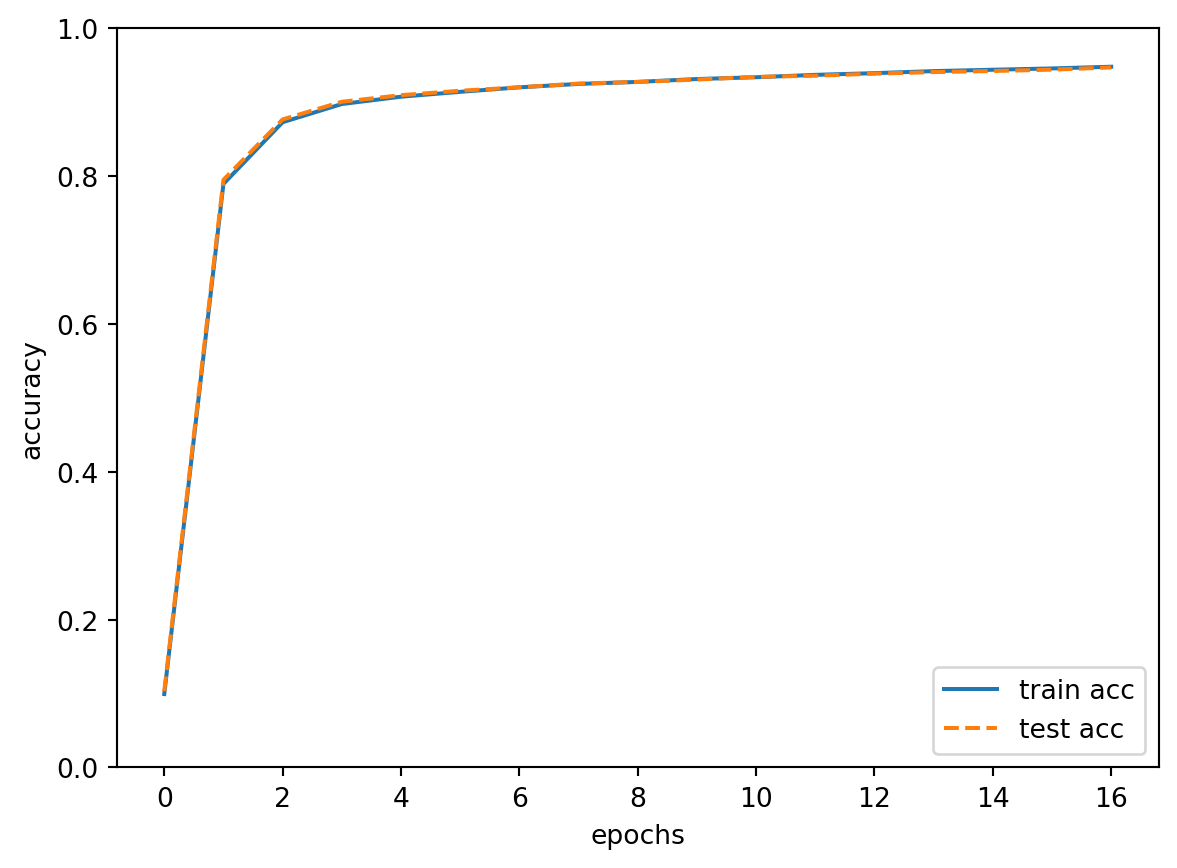
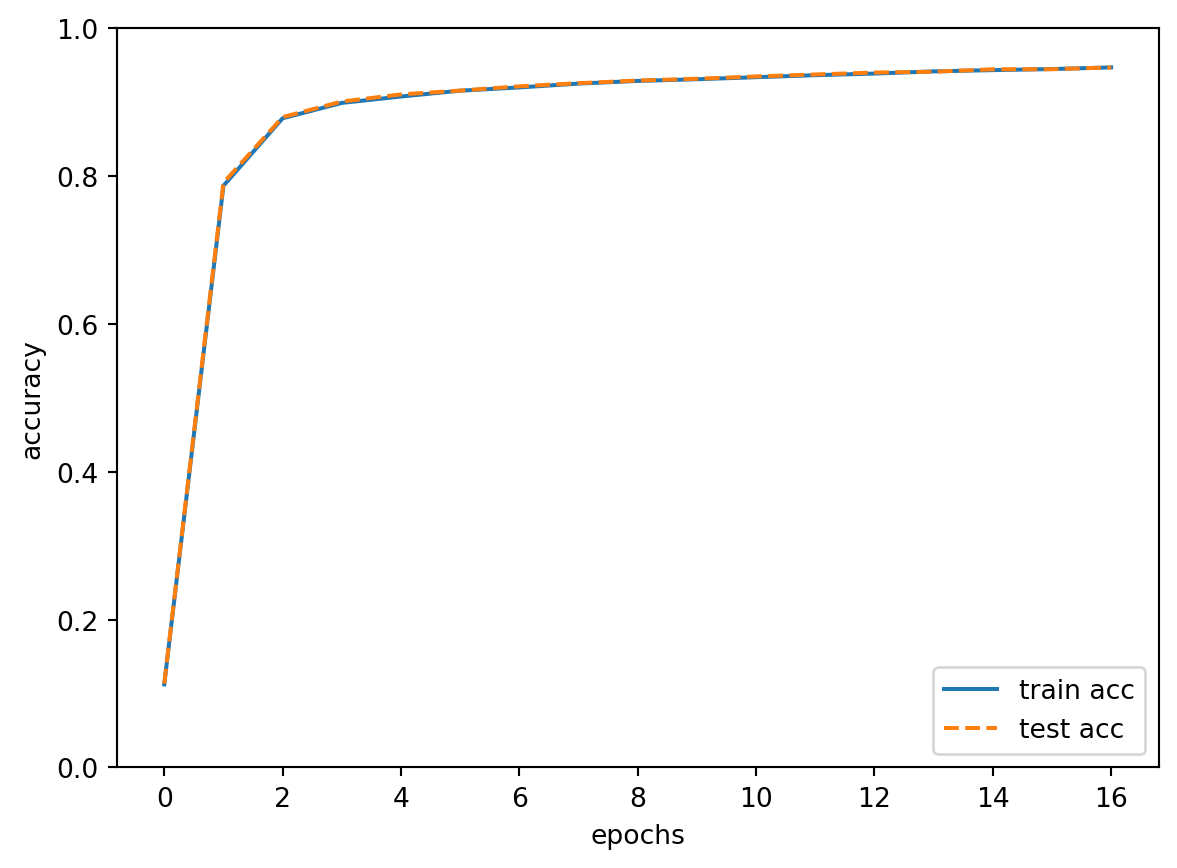
Built site for gh-pages

diff --git a/ANN-learning.html b/ANN-learning.html
@@ -363,7 +363,7 @@ Figure&nbsp;6.1: Forward and Backward propagation
 E = \frac{1}{2}\sum^{}_{k}(y_k - t_k)^2
 \tag{6.1}</span></span></p>
 <p>오차제곱합의 작동원리를 이해하기 위하여 임의로 <strong>원-핫 인코딩</strong>된 레이블(<span class="math inline">t_k</span>)과 임의로 <strong>소프트맥수 합수</strong>의 출력값(<span class="math inline">y_k</span>)을 생성하여 코드로 구현해 보겠습니다.<a href="#fn1" class="footnote-ref" id="fnref1" role="doc-noteref"><sup>1</sup></a></p>
-<div class="no-row-height column-margin column-container"><div id="fn1"><p><sup>1</sup>&nbsp;CEE에서도 동일한 예제를 사용 예정</p></div></div><div id="3942c938" class="cell" data-execution_count="2">
+<div class="no-row-height column-margin column-container"><div id="fn1"><p><sup>1</sup>&nbsp;CEE에서도 동일한 예제를 사용 예정</p></div></div><div id="c3f6967b" class="cell" data-execution_count="2">
 <div class="sourceCode cell-code" id="cb1"><pre class="sourceCode python code-with-copy"><code class="sourceCode python"><span id="cb1-1"><a href="#cb1-1" aria-hidden="true" tabindex="-1"></a><span class="co"># 정답 레이블은 2</span></span>
 <span id="cb1-2"><a href="#cb1-2" aria-hidden="true" tabindex="-1"></a>t <span class="op">=</span> [<span class="dv">0</span>, <span class="dv">0</span>, <span class="dv">1</span>, <span class="dv">0</span>, <span class="dv">0</span>, <span class="dv">0</span>, <span class="dv">0</span>, <span class="dv">0</span>, <span class="dv">0</span>, <span class="dv">0</span>]</span>
 <span id="cb1-3"><a href="#cb1-3" aria-hidden="true" tabindex="-1"></a></span>
@@ -403,7 +403,7 @@ Figure&nbsp;6.2: Graph of y=lox(x)
 </div>
 <p>위의 그래프(<a href="#fig-annPlotLog" class="quarto-xref">Figure&nbsp;<span>6.2</span></a> )에서 보듯 <span class="math inline">x</span>가 1일때 <span class="math inline">y</span>는 0이 되고 <span class="math inline">x</span>가 0에 근접시 <span class="math inline">y</span>는 점점 작아집니다. 교차 엔트로피는 여기에 음(<code>-</code>)의 부호를 붙여 활률값인 <code>x</code>가 작아질수록 손실값인 <code>y</code>가 크게 나오도록 하였습니다.</p>
 <p>위의 식(<a href="#eq-annCEE" class="quarto-xref">Equation&nbsp;<span>6.2</span></a> )을 코드로 구현해 보겠습니다.</p>
-<div id="8e5385ee" class="cell" data-execution_count="4">
+<div id="d3f05ad0" class="cell" data-execution_count="4">
 <div class="sourceCode cell-code" id="annotated-cell-2"><pre class="sourceCode python code-annotation-code code-with-copy code-annotated"><code class="sourceCode python"><span id="annotated-cell-2-1"><a href="#annotated-cell-2-1" aria-hidden="true" tabindex="-1"></a><span class="co"># 정답 레이블은 2</span></span>
 <span id="annotated-cell-2-2"><a href="#annotated-cell-2-2" aria-hidden="true" tabindex="-1"></a>t <span class="op">=</span> [<span class="dv">0</span>, <span class="dv">0</span>, <span class="dv">1</span>, <span class="dv">0</span>, <span class="dv">0</span>, <span class="dv">0</span>, <span class="dv">0</span>, <span class="dv">0</span>, <span class="dv">0</span>, <span class="dv">0</span>]</span>
 <span id="annotated-cell-2-3"><a href="#annotated-cell-2-3" aria-hidden="true" tabindex="-1"></a></span>
@@ -440,7 +440,7 @@ Figure&nbsp;6.2: Graph of y=lox(x)
 <p>이렇게 훈련데이터 모두에 대한 손실값을 산출하는 경우 데이터가 증가할 수록 산출시간이 오래 걸리는 문제가 있습니다. 그렇다면 이를 보다 효율적으로 할 수 있는 방법은 무엇이 있을까요?</p>
 <p>일부 데이터를 추려 <strong>근사치</strong>를 계산하는 방법을 생각할 수 있습니다. 이러한 방법을 <strong>미니배치</strong>(mini-batch)라고 하며 훈련데이터 전체에서 임의로 특정 데이터를 뽑아 학습하는 방법입니다.</p>
 <p>우리는 이러한 <strong>미니배치 학습</strong>을 위해 몇개를 임의 추출할지(<code>batch-size</code>)와 이러한 과정을 몇번 수행할 것인지(<code>number of iteration</code>)에 대한 고민을 해야 합니다, 그 이유는 배치는 전체데이터의 일부만을 대상으로 하기 때문입니다.<a href="#fn2" class="footnote-ref" id="fnref2" role="doc-noteref"><sup>2</sup></a></p>
-<div class="no-row-height column-margin column-container"><div id="fn2"><p><sup>2</sup>&nbsp;본 문제는 hyper parameter의 설정에 대한 내용으로 overfitting을 방지하려는 문제와 관련이 있습니다.</p></div></div><div id="14e2ee21" class="cell" data-execution_count="5">
+<div class="no-row-height column-margin column-container"><div id="fn2"><p><sup>2</sup>&nbsp;본 문제는 hyper parameter의 설정에 대한 내용으로 overfitting을 방지하려는 문제와 관련이 있습니다.</p></div></div><div id="d6793138" class="cell" data-execution_count="5">
 <div class="sourceCode cell-code" id="annotated-cell-3"><pre class="sourceCode python code-annotation-code code-with-copy code-annotated"><code class="sourceCode python"><span id="annotated-cell-3-1"><a href="#annotated-cell-3-1" aria-hidden="true" tabindex="-1"></a><span class="im">import</span> sys, os</span>
 <span id="annotated-cell-3-2"><a href="#annotated-cell-3-2" aria-hidden="true" tabindex="-1"></a>sys.path.append(os.pardir)  <span class="co"># 부모 디렉터리의 파일을 가져올 수 있도록 설정</span></span>
 <span id="annotated-cell-3-3"><a href="#annotated-cell-3-3" aria-hidden="true" tabindex="-1"></a><span class="im">from</span> dataset.mnist <span class="im">import</span> load_mnist</span>
@@ -470,7 +470,7 @@ Figure&nbsp;6.2: Graph of y=lox(x)
 </div>
 </div>
 <p>위에서 우리는 학습을 효율적으로 실시하기 위하여 미니배치를 설정하였습니다. 그렇다면 미니배치로 손실을 어떻게 구해야 할까고민입니다. 앞서 구현한 교차 엔트로피 오차를 아래의 코드와 같이 일부만 수정하면 간단히 해결할 수 있습니다.</p>
-<div id="35b92149" class="cell" data-execution_count="6">
+<div id="49a9630f" class="cell" data-execution_count="6">
 <div class="sourceCode cell-code" id="annotated-cell-4"><pre class="sourceCode python code-annotation-code code-with-copy code-annotated"><code class="sourceCode python"><span id="annotated-cell-4-1"><a href="#annotated-cell-4-1" aria-hidden="true" tabindex="-1"></a><span class="kw">def</span> corss_entropy_error(y, t):</span>
 <span id="annotated-cell-4-2"><a href="#annotated-cell-4-2" aria-hidden="true" tabindex="-1"></a>  <span class="cf">if</span> y.ndim <span class="op">==</span> <span class="dv">1</span>:</span>
 <span id="annotated-cell-4-3"><a href="#annotated-cell-4-3" aria-hidden="true" tabindex="-1"></a>    t <span class="op">=</span> t.reshape(<span class="dv">1</span>, t.size)</span>
@@ -531,7 +531,7 @@ Figure&nbsp;6.3: Example of Gradient Descent
 </div>
 </div>
 <p>아래는 경사하강법을 구현한 예시입니다.</p>
-<div id="7d87741c" class="cell" data-execution_count="8">
+<div id="4c38435e" class="cell" data-execution_count="8">
 <div class="sourceCode cell-code" id="annotated-cell-5"><pre class="sourceCode python code-annotation-code code-with-copy code-annotated"><code class="sourceCode python"><span id="annotated-cell-5-1"><a href="#annotated-cell-5-1" aria-hidden="true" tabindex="-1"></a><span class="co"># 기울기 계산</span></span>
 <a class="code-annotation-anchor" data-target-cell="annotated-cell-5" data-target-annotation="1" onclick="event.preventDefault();">1</a><span id="annotated-cell-5-2" class="code-annotation-target"><a href="#annotated-cell-5-2" aria-hidden="true" tabindex="-1"></a><span class="kw">def</span> numerical_gradient(f, x):</span>
 <a class="code-annotation-anchor" data-target-cell="annotated-cell-5" data-target-annotation="2" onclick="event.preventDefault();">2</a><span id="annotated-cell-5-3" class="code-annotation-target"><a href="#annotated-cell-5-3" aria-hidden="true" tabindex="-1"></a>  h <span class="op">=</span> <span class="fl">1e-4</span></span>
@@ -643,7 +643,7 @@ Figure&nbsp;6.4: Results by learning rate
 \end{align}
 \tag{6.4}</span></span></p>
 <p>위의 식(<a href="#eq-annGradient" class="quarto-xref">Equation&nbsp;<span>6.4</span></a> )을 코드로 구현하여 기울기를 산출해 보도록 하겠습니다. 먼제 간단하게 신경망을 아래와 같이 구현할 수 있습니다.</p>
-<div id="0c9a92a7" class="cell" data-execution_count="9">
+<div id="cc005412" class="cell" data-execution_count="9">
 <div class="sourceCode cell-code" id="annotated-cell-6"><pre class="sourceCode python code-annotation-code code-with-copy code-annotated"><code class="sourceCode python"><span id="annotated-cell-6-1"><a href="#annotated-cell-6-1" aria-hidden="true" tabindex="-1"></a><span class="co"># 환경설정</span></span>
 <span id="annotated-cell-6-2"><a href="#annotated-cell-6-2" aria-hidden="true" tabindex="-1"></a><span class="im">import</span> sys, os</span>
 <span id="annotated-cell-6-3"><a href="#annotated-cell-6-3" aria-hidden="true" tabindex="-1"></a>sys.path.append(os.pardir)</span>
@@ -706,24 +706,24 @@ Figure&nbsp;6.4: Results by learning rate
 </div>
 <div class="cell-output cell-output-stdout">
 <pre><code>가중치 현황
-[[ 0.54144197 -1.05834778 -0.83268155]
- [-2.13716795  1.348685    0.69609611]]
+[[ 0.73045716 -0.07799529  0.55849555]
+ [ 1.58022822  1.1732514  -0.85814868]]
 출력값
-[-1.59858597  0.57880783  0.12687757]
+[ 1.8604797   1.00912908 -0.43723648]
 손실값
-1.0113943787001272</code></pre>
+2.721233236872655</code></pre>
 </div>
 </div>
 <p>다음으로 기울기는 아래와 같이 구현할 수 있습니다. 가중치에 대한 손실함수의 기울기를 편미분을 이용하여 구하는 경우 본래 가중치가 보유한 형상은 유지됨을 주의하도록 합니다.<a href="#fn6" class="footnote-ref" id="fnref6" role="doc-noteref"><sup>6</sup></a></p>
-<div class="no-row-height column-margin column-container"><div id="fn6"><p><sup>6</sup>&nbsp;형상이 바뀌는 경우 신경망의 구조가 변하게 되어 에러가 발생합니다.</p></div></div><div id="8fe33970" class="cell" data-execution_count="10">
+<div class="no-row-height column-margin column-container"><div id="fn6"><p><sup>6</sup>&nbsp;형상이 바뀌는 경우 신경망의 구조가 변하게 되어 에러가 발생합니다.</p></div></div><div id="82c33320" class="cell" data-execution_count="10">
 <div class="sourceCode cell-code" id="cb6"><pre class="sourceCode python code-with-copy"><code class="sourceCode python"><span id="cb6-1"><a href="#cb6-1" aria-hidden="true" tabindex="-1"></a><span class="kw">def</span> f(W):</span>
 <span id="cb6-2"><a href="#cb6-2" aria-hidden="true" tabindex="-1"></a>  <span class="cf">return</span> net.loss(x,t)</span>
 <span id="cb6-3"><a href="#cb6-3" aria-hidden="true" tabindex="-1"></a></span>
 <span id="cb6-4"><a href="#cb6-4" aria-hidden="true" tabindex="-1"></a>dW <span class="op">=</span> numerical_gradient(f, net.W)</span>
 <span id="cb6-5"><a href="#cb6-5" aria-hidden="true" tabindex="-1"></a><span class="bu">print</span>(dW)</span></code><button title="Copy to Clipboard" class="code-copy-button"><i class="bi"></i></button></pre></div>
 <div class="cell-output cell-output-stdout">
-<pre><code>[[ 0.03886411  0.34290896 -0.38177307]
- [ 0.05829616  0.51436344 -0.57265961]]</code></pre>
+<pre><code>[[ 0.39284281  0.16768026 -0.56052307]
+ [ 0.58926422  0.25152039 -0.8407846 ]]</code></pre>
 </div>
 </div>
 <p>위의 내용에서 하석할 수 있는 것은 <code>numerical_gradient</code>를 통해 <span class="math inline">w_{11}</span>를 <code>h</code>만큼 미세하게 변화 시키는 경우 손실함수 값은 <code>print(dW)</code>의 1행x1열의 값만큼 변화한다는 의미<a href="#fn7" class="footnote-ref" id="fnref7" role="doc-noteref"><sup>7</sup></a>입니다. 또한 <span class="math inline">w_{11}</span> 보다 <span class="math inline">w_{23}</span>의 기여도가 더 크다고 이해할 수 있습니다.</p>

diff --git a/ANN-forward.html b/ANN-forward.html
@@ -404,7 +404,7 @@ Figure&nbsp;5.2: Process of Forward Propagation(souce: Deeplearning from Scratch
 <p><strong>input to hidden</strong></p>
 <p>최초 입력층(0층)의 신호 전달 체계는 입력값(노드)은 2개인 1차원 배열이고 다음의 은닉층(1층)은 노드 3계로 이루어진 1차원 배열입니다. 2개의 노드 값을 받아 3개의 노드로 전달해야 하므로 노드간의 간선은 총 6개(<span class="math inline">6 = 2 \times 3</span>)입니다.</p>
 <p>입력값 및 편향값을 <code>a</code>에 전달하고 <code>a</code>값을 활성화 함수(Sigmoid 함수를 사용) <code>h()</code>를 이용하여 신호 <code>z</code>를 산출하도록 합니다. 결과적으로 은닉층(1층)에 해당하는 3개의 노드의 신호를 확인할 수 있습닏.</p>
-<div id="883929cc" class="cell" data-execution_count="2">
+<div id="e9e9e2c3" class="cell" data-execution_count="2">
 <div class="sourceCode cell-code" id="cb1"><pre class="sourceCode python code-with-copy"><code class="sourceCode python"><span id="cb1-1"><a href="#cb1-1" aria-hidden="true" tabindex="-1"></a><span class="co"># 입력값, 편향, 가중치</span></span>
 <span id="cb1-2"><a href="#cb1-2" aria-hidden="true" tabindex="-1"></a>X  <span class="op">=</span> np.array([<span class="fl">1.0</span>, <span class="fl">0.5</span>])</span>
 <span id="cb1-3"><a href="#cb1-3" aria-hidden="true" tabindex="-1"></a>B1 <span class="op">=</span> np.array([<span class="fl">0.1</span>,<span class="fl">0.2</span>,<span class="fl">0.3</span>])</span>
@@ -426,7 +426,7 @@ Figure&nbsp;5.2: Process of Forward Propagation(souce: Deeplearning from Scratch
 <p><strong>hidden to hidden</strong></p>
 <p>은닉층(1층)이 다시 입력층으로 하여 다음의 은닉층(2층)으로 신호를 전달하도록 해야 합니다. 앞서 진행한 신호 전달 과정과 동일합니다.</p>
 <p>다만, 입력 노드가 편향을 포함하여 4개가 다음 층인 2개의 노드로 전달됨에 따라 이전 과정과 달리 간선은 총 8개 입니다. 편향은 2개 간선을 갖고 가중치는 입력 노드별 2개 총 6개로 이루어 집니다.</p>
-<div id="787c46a3" class="cell" data-execution_count="3">
+<div id="85eb0f60" class="cell" data-execution_count="3">
 <div class="sourceCode cell-code" id="cb3"><pre class="sourceCode python code-with-copy"><code class="sourceCode python"><span id="cb3-1"><a href="#cb3-1" aria-hidden="true" tabindex="-1"></a><span class="co"># 편향, 가중치</span></span>
 <span id="cb3-2"><a href="#cb3-2" aria-hidden="true" tabindex="-1"></a>B2 <span class="op">=</span> np.array([<span class="fl">0.1</span>,<span class="fl">0.2</span>])</span>
 <span id="cb3-3"><a href="#cb3-3" aria-hidden="true" tabindex="-1"></a>W2 <span class="op">=</span> np.array([[<span class="fl">0.1</span>,<span class="fl">0.4</span>], [<span class="fl">0.2</span>,<span class="fl">0.5</span>], [<span class="fl">0.3</span>,<span class="fl">0.6</span>]])</span>
@@ -445,7 +445,7 @@ Figure&nbsp;5.2: Process of Forward Propagation(souce: Deeplearning from Scratch
 <p><strong>hidden to output</strong></p>
 <p>은닉층(2층)이 다시 입력층으로 하여 다음의 출력층(3층)으로 신호를 전달하도록 해야 합니다. 앞서 진행한 신호 전달 과정과 동일합니다.</p>
 <p>주의할 것은 출력층의 경우 해결하고자 하는 문제의 성질에 맞게 설정되어야 합니다. 여기서는 입력되는 값을 그대로 출력하는 항등함수(Identity Function)알 사용하도록 하겠습니다.</p>
-<div id="de5fb5f0" class="cell" data-execution_count="4">
+<div id="cc3cbc92" class="cell" data-execution_count="4">
 <div class="sourceCode cell-code" id="cb5"><pre class="sourceCode python code-with-copy"><code class="sourceCode python"><span id="cb5-1"><a href="#cb5-1" aria-hidden="true" tabindex="-1"></a><span class="co"># 항등함수</span></span>
 <span id="cb5-2"><a href="#cb5-2" aria-hidden="true" tabindex="-1"></a><span class="kw">def</span> identity_function(x):</span>
 <span id="cb5-3"><a href="#cb5-3" aria-hidden="true" tabindex="-1"></a>  <span class="cf">return</span> x</span>
@@ -482,7 +482,7 @@ Figure&nbsp;5.2: Process of Forward Propagation(souce: Deeplearning from Scratch
 </div>
 <p><strong>Wrap-up</strong></p>
 <p>앞서 정리한 내용을 하나의 모듈로 작성하도록 하겠습니다. 이 신경망의 신호 전달 과정은 순방향의 연산 과정만을 익히기 위함이고 가장 처음에 실행되는 과정입니다.</p>
-<div id="ac60a09c" class="cell" data-execution_count="5">
+<div id="45f49327" class="cell" data-execution_count="5">
 <div class="sourceCode cell-code" id="annotated-cell-4"><pre class="sourceCode python code-annotation-code code-with-copy code-annotated"><code class="sourceCode python"><a class="code-annotation-anchor" data-target-cell="annotated-cell-4" data-target-annotation="1" onclick="event.preventDefault();">1</a><span id="annotated-cell-4-1" class="code-annotation-target"><a href="#annotated-cell-4-1" aria-hidden="true" tabindex="-1"></a><span class="kw">def</span> init_network():</span>
 <span id="annotated-cell-4-2"><a href="#annotated-cell-4-2" aria-hidden="true" tabindex="-1"></a>  network <span class="op">=</span> {}</span>
 <span id="annotated-cell-4-3"><a href="#annotated-cell-4-3" aria-hidden="true" tabindex="-1"></a>  network[<span class="st">'W1'</span>] <span class="op">=</span> np.array([[<span class="fl">0.1</span>,<span class="fl">0.3</span>,<span class="fl">0.5</span>], [<span class="fl">0.2</span>,<span class="fl">0.4</span>,<span class="fl">0.6</span>]]) <span class="co"># 입력2 출력3</span></span>
@@ -567,7 +567,7 @@ y_k = \frac{exp(a_k)}{\sum^{n}_{i=1}exp(a_i)} &amp;= \frac{C\,exp(a_k)}{C\,\sum^
 \end{align}
 \tag{5.3}</span></span></p>
 <p>위의 식에 따라 출력층에 사용할 소프트맥스 함수를 아래와 같이 구현할 수 있으며, 개선된 식의 <span class="math inline">C</span>는 통상 입력값의 최대값으로 설정하도록 하겠습니다.</p>
-<div id="e1d3f5ed" class="cell" data-execution_count="6">
+<div id="88b89837" class="cell" data-execution_count="6">
 <div class="sourceCode cell-code" id="cb8"><pre class="sourceCode python code-with-copy"><code class="sourceCode python"><span id="cb8-1"><a href="#cb8-1" aria-hidden="true" tabindex="-1"></a><span class="kw">def</span> softmax(a):</span>
 <span id="cb8-2"><a href="#cb8-2" aria-hidden="true" tabindex="-1"></a>  c <span class="op">=</span> np.<span class="bu">max</span>(a)</span>
 <span id="cb8-3"><a href="#cb8-3" aria-hidden="true" tabindex="-1"></a>  exp_a <span class="op">=</span> np.exp(a<span class="op">-</span>c)</span>
@@ -613,7 +613,7 @@ MNIST 데이터셋
 </ul>
 </div>
 </div>
-<div class="no-row-height column-margin column-container"><div id="fn1"><p><sup>1</sup>&nbsp;ANN 및 CNN 까지 다양한 예제에 활용될 예정</p></div></div><div id="ea508c32" class="cell" data-execution_count="7">
+<div class="no-row-height column-margin column-container"><div id="fn1"><p><sup>1</sup>&nbsp;ANN 및 CNN 까지 다양한 예제에 활용될 예정</p></div></div><div id="a9fde055" class="cell" data-execution_count="7">
 <div class="sourceCode cell-code" id="annotated-cell-6"><pre class="sourceCode python code-annotation-code code-with-copy code-annotated"><code class="sourceCode python"><span id="annotated-cell-6-1"><a href="#annotated-cell-6-1" aria-hidden="true" tabindex="-1"></a><span class="im">import</span> sys, os</span>
 <span id="annotated-cell-6-2"><a href="#annotated-cell-6-2" aria-hidden="true" tabindex="-1"></a>sys.path.append(os.pardir)  <span class="co"># 부모 디렉터리의 파일을 가져올 수 있도록 설정</span></span>
 <span id="annotated-cell-6-3"><a href="#annotated-cell-6-3" aria-hidden="true" tabindex="-1"></a><span class="im">import</span> numpy <span class="im">as</span> np</span>
@@ -667,7 +667,7 @@ MNIST 데이터셋
 <h3 data-number="5.3.1" class="anchored" data-anchor-id="inference-processing"><span class="header-section-number">5.3.1</span> Inference processing</h3>
 <p>ANN을 활용하여 MNIST 데이터셋을 가지고 추론과정을 신경망으로 구현하면 아래와 같습니다. 입력층의 뉴런은 <span class="math inline">28\times28</span>의 데이터를 받아 Flatten하게 <span class="math inline">784</span>개의 뉴런으로 갖도록 합니다. 그리고 출력층의 뉴런은 0~9까지 10개로 분류해야 하므로 10개의 뉴런을 갖도록 합니다.</p>
 <p>입력과 출력사이의 은닉층은 2개의 층으로 구성하도록 하고 각각 50개 100개의 뉴런을 갖도록 합니다. 은닉층의 뉴런의 갯수는 임의로 정한 것이고 본 사전에 학습된 <span class="math inline">\omega</span> 를 사용하여 추론의 정확도를 평가해 보도록 하겠습니다.</p>
-<div id="8a07f8b8" class="cell" data-execution_count="8">
+<div id="2ef36491" class="cell" data-execution_count="8">
 <div class="sourceCode cell-code" id="annotated-cell-7"><pre class="sourceCode python code-annotation-code code-with-copy code-annotated"><code class="sourceCode python"><span id="annotated-cell-7-1"><a href="#annotated-cell-7-1" aria-hidden="true" tabindex="-1"></a><span class="co"># coding: utf-8</span></span>
 <span id="annotated-cell-7-2"><a href="#annotated-cell-7-2" aria-hidden="true" tabindex="-1"></a><span class="im">import</span> sys, os</span>
 <span id="annotated-cell-7-3"><a href="#annotated-cell-7-3" aria-hidden="true" tabindex="-1"></a>sys.path.append(os.pardir)  <span class="co"># 부모 디렉터리의 파일을 가져올 수 있도록 설정</span></span>

diff --git a/ANN-backward.html b/ANN-backward.html
@@ -72,7 +72,7 @@ ul.task-list li input[type="checkbox"] {
 
 </head>
 
-<body class="nav-sidebar floating">
+<body class="nav-sidebar floating slimcontent">
 
 <div id="quarto-search-results"></div>
   <header id="quarto-header" class="headroom fixed-top">
@@ -200,10 +200,21 @@ ul.task-list li input[type="checkbox"] {
 <div id="quarto-sidebar-glass" class="quarto-sidebar-collapse-item" data-bs-toggle="collapse" data-bs-target=".quarto-sidebar-collapse-item"></div>
 <!-- margin-sidebar -->
     <div id="quarto-margin-sidebar" class="sidebar margin-sidebar">
-        
+        <nav id="TOC" role="doc-toc" class="toc-active">
+    <h2 id="toc-title">Table of contents</h2>
+   
+  <ul>
+  <li><a href="#pre-requisite-chain-rule-and-dynamic-programming" id="toc-pre-requisite-chain-rule-and-dynamic-programming" class="nav-link active" data-scroll-target="#pre-requisite-chain-rule-and-dynamic-programming"><span class="header-section-number">8.1</span> Pre-requisite: Chain-rule and Dynamic Programming</a>
+  <ul class="collapse">
+  <li><a href="#chain-rule" id="toc-chain-rule" class="nav-link" data-scroll-target="#chain-rule"><span class="header-section-number">8.1.1</span> Chain-rule</a></li>
+  <li><a href="#dynamic-programming" id="toc-dynamic-programming" class="nav-link" data-scroll-target="#dynamic-programming"><span class="header-section-number">8.1.2</span> Dynamic Programming</a></li>
+  </ul></li>
+  <li><a href="#backpropagation" id="toc-backpropagation" class="nav-link" data-scroll-target="#backpropagation"><span class="header-section-number">8.2</span> backpropagation</a></li>
+  </ul>
+</nav>
     </div>
 <!-- main -->
-<main class="content" id="quarto-document-content">
+<main class="content page-columns page-full" id="quarto-document-content">
 
 <header id="title-block-header" class="quarto-title-block default"><nav class="quarto-page-breadcrumbs quarto-title-breadcrumbs d-none d-lg-block" aria-label="breadcrumb"><ol class="breadcrumb"><li class="breadcrumb-item"><a href="./ANN-intro.html">ANN</a></li><li class="breadcrumb-item"><a href="./ANN-backward.html"><span class="chapter-number">8</span>&nbsp; <span class="chapter-title">Backward Propagation</span></a></li></ol></nav>
 <div class="quarto-title">
@@ -224,7 +235,29 @@ ul.task-list li input[type="checkbox"] {
 </header>
 
 
+<p>지금까지 순전파를 거쳐 산출한 손실함수값을 수치미분을 이용하여 기울기만큼 매개변수를 업데이트 하는 학습과정을 살펴보았습니다. 구현은 단순할 수 있으나, 계산속도는 그리 빠르지 않습니다. 여기서 등장하는 것이 <strong>오차역전파</strong>(backpropagation)입니다.</p>
+<p>오차역전파를 이해하기 위하여는 우리는 2가지를 먼저 이해할 필요가 있다고 생각합니다. 하나는 미분에서의 <strong>chain-rule</strong>이고 다른 하나는 피보나치 수열에 기반한 <strong>Dynamic Programming</strong>입니다,</p>
+<section id="pre-requisite-chain-rule-and-dynamic-programming" class="level2 page-columns page-full" data-number="8.1">
+<h2 data-number="8.1" class="anchored" data-anchor-id="pre-requisite-chain-rule-and-dynamic-programming"><span class="header-section-number">8.1</span> Pre-requisite: Chain-rule and Dynamic Programming</h2>
+<p>오차역전파는 기본적으로 손실함수 값에서 입력값까지의 매개변수를 역으로 조정하는 과정으로 순방향과 반대방향으로 국소적인 미분값을 곱하며 가중치를 조정하는 절차로 이해할 수 있습니다.</p>
+<section id="chain-rule" class="level3 page-columns page-full" data-number="8.1.1">
+<h3 data-number="8.1.1" class="anchored" data-anchor-id="chain-rule"><span class="header-section-number">8.1.1</span> Chain-rule</h3>
+<p><strong>반대방향으로 국소적인 미분값을 곱한다</strong>는 것은 어떠한 의미를 갖고 있을까요? 그리고 이러한 연산의 기반이 되는 개념이 무엇일까요? 이물음에 대한 답변이 바로 <strong>연쇄법칙</strong>입니다. 연쇄법칙에 관한 자세한 설명은 아래 <strong>3Blue1Brown</strong><a href="#fn1" class="footnote-ref" id="fnref1" role="doc-noteref"><sup>1</sup></a> 영상을 참고하기 바랍니다.</p>
+<div class="no-row-height column-margin column-container"><div id="fn1"><p><sup>1</sup>&nbsp;3Blue1Brown은 많은 수학적인 문제를 도식화하여 아주 직관적으로 설명하고 있어 매우 유용합니다.</p></div></div><div class="quarto-video ratio ratio-16x9"><iframe data-external="1" src="https://www.youtube.com/embed/tIeHLnjs5U8?rel=0" title="" frameborder="0" allow="accelerometer; autoplay; clipboard-write; encrypted-media; gyroscope; picture-in-picture" allowfullscreen=""></iframe></div>
+</section>
+<section id="dynamic-programming" class="level3" data-number="8.1.2">
+<h3 data-number="8.1.2" class="anchored" data-anchor-id="dynamic-programming"><span class="header-section-number">8.1.2</span> Dynamic Programming</h3>
+<p>연쇄법칙을 정확히 이해하셨다면 지속적으로 미분값이 중복으로 계산해야 함을 확인할 수 있습니다. 그러나 이미 계산된 미분값을 따로 저장하였다가 불러오기만 한다면 연산이 얼마나 쉬워질까요? 쉬워진다기보다 간단해지고 컴퓨터의 연산의 수를 줄일 수 있지 않을까요?</p>
+<p>바로 이러한 배경에서 연쇄법칙을 빠르게 수행하기 위하여 고려되는 방법이 <strong>동적계획법</strong> 입니다. 이는 피보나치 수열의 계산에 있어서 재귀적으로 반복계산되는 노드를 따로 저장하여 두었다가 다른 재귀식에서는 그 값을 호출하여 사용하도록 하므로써 연산의 수를 줄이고 종국적으로는 알고리즘의 성능을 개선해줄수 있을 것입니다.</p>
+<p>동적계획법에 대한 자세한 설명은 아래 영상을 참고하시기 바랍니다.</p>
+<div class="quarto-video ratio ratio-16x9"><iframe data-external="1" src="https://www.youtube.com/embed/oBt53YbR9Kk?list=PLQCbmnrn5eI9vrt_T4o-KCn-5DlESFDBM" title="" frameborder="0" allow="accelerometer; autoplay; clipboard-write; encrypted-media; gyroscope; picture-in-picture" allowfullscreen=""></iframe></div>
+</section>
+</section>
+<section id="backpropagation" class="level2" data-number="8.2">
+<h2 data-number="8.2" class="anchored" data-anchor-id="backpropagation"><span class="header-section-number">8.2</span> backpropagation</h2>
 
+
+</section>
 
 
 </main> <!-- /main -->

diff --git a/perceptron-lab_classification.html b/perceptron-lab_classification.html
@@ -402,7 +402,7 @@ h(x) &amp;= \text{sign}(\sum_{i=0}^{d}\omega_{i}x_{i})
 <section id="solving-with-perceptron-algorithm" class="level2" data-number="2.2">
 <h2 data-number="2.2" class="anchored" data-anchor-id="solving-with-perceptron-algorithm"><span class="header-section-number">2.2</span> Solving with perceptron algorithm</h2>
 <p>위에서 살펴본 내용을 이제 코드로 작성해 보겠습니다. 기본적인 입력변수 <span class="math inline">x</span>를 <code>x1</code>과 <code>x2</code>로 라벨값 <span class="math inline">y</span>를 <code>C1</code>과 <code>C0</code>로 생성하였습니다. 그에 따른 산점도 데이터는 아래와 같습니다.</p>
-<div id="529fa92f" class="cell" data-execution_count="3">
+<div id="99e20d95" class="cell" data-execution_count="3">
 <div class="sourceCode cell-code" id="cb1"><pre class="sourceCode python code-with-copy"><code class="sourceCode python"><span id="cb1-1"><a href="#cb1-1" aria-hidden="true" tabindex="-1"></a><span class="co">#training data gerneration</span></span>
 <span id="cb1-2"><a href="#cb1-2" aria-hidden="true" tabindex="-1"></a>m <span class="op">=</span> <span class="dv">100</span></span>
 <span id="cb1-3"><a href="#cb1-3" aria-hidden="true" tabindex="-1"></a>x1 <span class="op">=</span> <span class="dv">8</span><span class="op">*</span>np.random.rand(m, <span class="dv">1</span>)</span>
@@ -413,7 +413,7 @@ h(x) &amp;= \text{sign}(\sum_{i=0}^{d}\omega_{i}x_{i})
 <span id="cb1-8"><a href="#cb1-8" aria-hidden="true" tabindex="-1"></a>C1 <span class="op">=</span> np.where(g <span class="op">&gt;=</span> <span class="dv">1</span>)[<span class="dv">0</span>]</span>
 <span id="cb1-9"><a href="#cb1-9" aria-hidden="true" tabindex="-1"></a>C0 <span class="op">=</span> np.where(g <span class="op">&lt;</span> <span class="op">-</span><span class="dv">1</span>)[<span class="dv">0</span>]</span></code><button title="Copy to Clipboard" class="code-copy-button"><i class="bi"></i></button></pre></div>
 </div>
-<div id="71a2f22b" class="cell" data-execution_count="4">
+<div id="0a46197c" class="cell" data-execution_count="4">
 <div class="cell-output cell-output-display">
 <div class="quarto-figure quarto-figure-center">
 <figure class="figure">
@@ -430,7 +430,7 @@ x &amp;= \begin{bmatrix} \left(x^{(1)}\right)^T \\ \left(x^{(2)}\right)^T \\ \le
 y &amp;= \begin{bmatrix}y^{(1)} \\ y^{(2)} \\ y^{(3)}\\ \vdots \\ y^{(m)} \end{bmatrix}
 \end{align}
 </span></p>
-<div id="719fcadc" class="cell" data-execution_count="5">
+<div id="1960d4e2" class="cell" data-execution_count="5">
 <div class="sourceCode cell-code" id="cb2"><pre class="sourceCode python code-with-copy"><code class="sourceCode python"><span id="cb2-1"><a href="#cb2-1" aria-hidden="true" tabindex="-1"></a>X1 <span class="op">=</span> np.hstack([np.ones([C1.shape[<span class="dv">0</span>],<span class="dv">1</span>]), x1[C1], x2[C1]])</span>
 <span id="cb2-2"><a href="#cb2-2" aria-hidden="true" tabindex="-1"></a>X0 <span class="op">=</span> np.hstack([np.ones([C0.shape[<span class="dv">0</span>],<span class="dv">1</span>]), x1[C0], x2[C0]])</span>
 <span id="cb2-3"><a href="#cb2-3" aria-hidden="true" tabindex="-1"></a></span>
@@ -441,7 +441,7 @@ y &amp;= \begin{bmatrix}y^{(1)} \\ y^{(2)} \\ y^{(3)}\\ \vdots \\ y^{(m)} \end{b
 <span id="cb2-8"><a href="#cb2-8" aria-hidden="true" tabindex="-1"></a>y <span class="op">=</span> np.asmatrix(y)</span></code><button title="Copy to Clipboard" class="code-copy-button"><i class="bi"></i></button></pre></div>
 </div>
 <p>가중치 <span class="math inline">\omega</span>를 1로 초깃값을 설정하고, 각각의 입력값을 이용하여 PLA를 실행하며 가중치 업데이트(<span class="math inline">\omega \leftarrow \omega + yx</span>)를 실행합니다.</p>
-<div id="f9ed5efa" class="cell" data-execution_count="6">
+<div id="10b20c18" class="cell" data-execution_count="6">
 <div class="sourceCode cell-code" id="cb3"><pre class="sourceCode python code-with-copy"><code class="sourceCode python"><span id="cb3-1"><a href="#cb3-1" aria-hidden="true" tabindex="-1"></a>w <span class="op">=</span> np.ones([<span class="dv">3</span>,<span class="dv">1</span>])</span>
 <span id="cb3-2"><a href="#cb3-2" aria-hidden="true" tabindex="-1"></a>w <span class="op">=</span> np.asmatrix(w)</span>
 <span id="cb3-3"><a href="#cb3-3" aria-hidden="true" tabindex="-1"></a></span>
@@ -456,11 +456,11 @@ y &amp;= \begin{bmatrix}y^{(1)} \\ y^{(2)} \\ y^{(3)}\\ \vdots \\ y^{(m)} \end{b
 <span id="cb3-12"><a href="#cb3-12" aria-hidden="true" tabindex="-1"></a>            flag <span class="op">=</span> <span class="dv">0</span></span></code><button title="Copy to Clipboard" class="code-copy-button"><i class="bi"></i></button></pre></div>
 </div>
 <p>위의 절차를 실행하여 산출한 결정 경계(Dicision Boundary)는 아래와 같습니다.</p>
-<div id="1a8e7929" class="cell" data-execution_count="7">
+<div id="fb25e03e" class="cell" data-execution_count="7">
 <div class="cell-output cell-output-display">
 <div class="quarto-figure quarto-figure-center">
 <figure class="figure">
-<p><img src="perceptron-lab_classification_files/figure-html/cell-8-output-1.png" width="524" height="364" class="figure-img"></p>
+<p><img src="perceptron-lab_classification_files/figure-html/cell-8-output-1.png" width="524" height="363" class="figure-img"></p>
 <figcaption>Linearly Separable Classes with dicision boundary</figcaption>
 </figure>
 </div>

diff --git a/ANN-lab_MNIST.html b/ANN-lab_MNIST.html
@@ -301,25 +301,25 @@ window.Quarto = {
 <h2 data-number="7.3" class="anchored" data-anchor-id="step3-evaluating-with-test-data"><span class="header-section-number">7.3</span> STEP3: Evaluating with test data</h2>
 <p>이제 우리가 구현한 클래스의 성능을 평가해 보도록 하겠습니다. 훈련데이터를 미니배치로 나누어 훈련을 진행하였는데 과연 다른 새로운 데이터셋에서도 동일한 성능을 발휘할지 알아야 합니다.</p>
 <p>만약, 훈련 데이터에만 적응한 ANN이라면 새로운 데이터에서는 적절한 성능을 발휘하지 못할 가능성이 있기 때문입니다. 이를 <strong>오버피팅</strong>(overfitting)<a href="#fn2" class="footnote-ref" id="fnref2" role="doc-noteref"><sup>2</sup></a>이라 합니다.</p>
-<div class="no-row-height column-margin column-container"><div id="fn2"><p><sup>2</sup>&nbsp;오버피팅은 훈련데이터에 대한 정확도는 높으나 신규 데이터에는 적절한 성능을 발휘하지 못하는 문제로 이러한 문제를 해결하기 위하여 조기종료(early stopping), 가중치 감소, 드롭아웃(drop-out)등의 기법이 사용됩니다.</p></div></div><div id="886deb42" class="cell" data-execution_count="3">
+<div class="no-row-height column-margin column-container"><div id="fn2"><p><sup>2</sup>&nbsp;오버피팅은 훈련데이터에 대한 정확도는 높으나 신규 데이터에는 적절한 성능을 발휘하지 못하는 문제로 이러한 문제를 해결하기 위하여 조기종료(early stopping), 가중치 감소, 드롭아웃(drop-out)등의 기법이 사용됩니다.</p></div></div><div id="f02147cb" class="cell" data-execution_count="3">
 <div class="cell-output cell-output-stdout">
-<pre><code>train acc, test acc | 0.0993, 0.1032
-train acc, test acc | 0.7894833333333333, 0.795
-train acc, test acc | 0.8729, 0.8767
-train acc, test acc | 0.8975, 0.9006
-train acc, test acc | 0.9074166666666666, 0.9095
-train acc, test acc | 0.9139833333333334, 0.9155
-train acc, test acc | 0.9201, 0.9202
-train acc, test acc | 0.9247, 0.9252
-train acc, test acc | 0.92745, 0.9274
-train acc, test acc | 0.9313333333333333, 0.9306
-train acc, test acc | 0.9337333333333333, 0.9343
-train acc, test acc | 0.9369833333333333, 0.9358
-train acc, test acc | 0.9392666666666667, 0.9386
-train acc, test acc | 0.9420333333333333, 0.9407
-train acc, test acc | 0.9439, 0.9422
-train acc, test acc | 0.94565, 0.944
-train acc, test acc | 0.9479666666666666, 0.947</code></pre>
+<pre><code>train acc, test acc | 0.11236666666666667, 0.1135
+train acc, test acc | 0.7868833333333334, 0.791
+train acc, test acc | 0.8782333333333333, 0.8798
+train acc, test acc | 0.8990333333333334, 0.9009
+train acc, test acc | 0.9076833333333333, 0.9105
+train acc, test acc | 0.91555, 0.9157
+train acc, test acc | 0.91995, 0.9215
+train acc, test acc | 0.92515, 0.9257
+train acc, test acc | 0.9287666666666666, 0.9293
+train acc, test acc | 0.9310333333333334, 0.9317
+train acc, test acc | 0.9338, 0.9348
+train acc, test acc | 0.9365166666666667, 0.9375
+train acc, test acc | 0.9387166666666666, 0.9401
+train acc, test acc | 0.9416833333333333, 0.9412
+train acc, test acc | 0.9433666666666667, 0.9445
+train acc, test acc | 0.9448333333333333, 0.9446
+train acc, test acc | 0.9470833333333334, 0.947</code></pre>
 </div>
 <div class="cell-output cell-output-display">
 <div>

diff --git a/perceptron-intro.html b/perceptron-intro.html
@@ -622,7 +622,7 @@ y = \begin{cases}
 \end{cases}
 \tag{1.4}</span></span></p>
 </div></div><p>변형된 수식(<a href="#eq-eqAndGate2" class="quarto-xref">Equation&nbsp;<span>1.4</span></a> )에 기초하여 진리표(<a href="#tbl-bitwise" class="quarto-xref">Table&nbsp;<span>1.1</span></a> )상의 게이트를 코드로 구현하면 아래와 같습니다.</p>
-<div id="96c65ffc" class="cell" data-execution_count="2">
+<div id="333f34eb" class="cell" data-execution_count="2">
 <div class="sourceCode cell-code" id="annotated-cell-1"><pre class="sourceCode python code-annotation-code code-with-copy code-annotated"><code class="sourceCode python"><a class="code-annotation-anchor" data-target-cell="annotated-cell-1" data-target-annotation="1" onclick="event.preventDefault();">1</a><span id="annotated-cell-1-1" class="code-annotation-target"><a href="#annotated-cell-1-1" aria-hidden="true" tabindex="-1"></a><span class="im">import</span> numpy <span class="im">as</span> np</span>
 <span id="annotated-cell-1-2"><a href="#annotated-cell-1-2" aria-hidden="true" tabindex="-1"></a></span>
 <span id="annotated-cell-1-3"><a href="#annotated-cell-1-3" aria-hidden="true" tabindex="-1"></a><span class="co"># AND gate</span></span>
@@ -752,7 +752,7 @@ Table&nbsp;1.2: <code>XOR</code>게이트의 진리표
 </figure>
 </div>
 <p>위의 진리표(<a href="#tbl-XOR2" class="quarto-xref">Table&nbsp;<span>1.2</span></a> )를 코드로 구현하면 아래와 같습니다. 앞서 구현한 게이트들을 코드내에서 사용하여 단순하게 구현할 수 있습니다.</p>
-<div id="dc24ce18" class="cell" data-execution_count="3">
+<div id="fa556a5d" class="cell" data-execution_count="3">
 <div class="sourceCode cell-code" id="cb1"><pre class="sourceCode python code-with-copy"><code class="sourceCode python"><span id="cb1-1"><a href="#cb1-1" aria-hidden="true" tabindex="-1"></a><span class="kw">def</span> XOR(x1, x2):</span>
 <span id="cb1-2"><a href="#cb1-2" aria-hidden="true" tabindex="-1"></a>  s1 <span class="op">=</span> NAND(x1, x2)</span>
 <span id="cb1-3"><a href="#cb1-3" aria-hidden="true" tabindex="-1"></a>  s2 <span class="op">=</span> OR(x1, x2)</span>

diff --git a/ANN-activation.html b/ANN-activation.html
@@ -353,7 +353,7 @@ h(x) = \frac{1}{1+exp(-x)}
 \end{align}
 </span></p>
 <p>시그모이드 함수를 <code>python</code> 코드로 아래와 같이 간다하게 구현할 수 있습니다. 이를 활용하여 시그모이드 함수를 실행하면 아래와 같은 그래프(<a href="#fig-annAct1" class="quarto-xref">Figure&nbsp;<span>4.2</span></a> )를 볼 수 있습니다.</p>
-<div id="df868610" class="cell" data-execution_count="2">
+<div id="c46454a9" class="cell" data-execution_count="2">
 <div class="sourceCode cell-code" id="cb1"><pre class="sourceCode python code-with-copy"><code class="sourceCode python"><span id="cb1-1"><a href="#cb1-1" aria-hidden="true" tabindex="-1"></a><span class="kw">def</span> sigmoid(x):</span>
 <span id="cb1-2"><a href="#cb1-2" aria-hidden="true" tabindex="-1"></a>  <span class="cf">return</span> <span class="dv">1</span> <span class="op">/</span> (<span class="dv">1</span> <span class="op">+</span> np.exp(<span class="op">-</span>x))</span></code><button title="Copy to Clipboard" class="code-copy-button"><i class="bi"></i></button></pre></div>
 </div>
@@ -381,7 +381,7 @@ x &amp; (x &gt; 0) \\
 \end{align}
 </span></p>
 <p>ReLU 함수를 <code>python</code> 코드로 아래와 같이 간다하게 구현할 수 있습니다. 이를 활용하여 시그모이드 함수를 실행하면 아래와 같은 그래프(<a href="#fig-annAct2" class="quarto-xref">Figure&nbsp;<span>4.3</span></a> )를 볼 수 있습니다.</p>
-<div id="f7c20459" class="cell" data-execution_count="4">
+<div id="c484488c" class="cell" data-execution_count="4">
 <div class="sourceCode cell-code" id="cb2"><pre class="sourceCode python code-with-copy"><code class="sourceCode python"><span id="cb2-1"><a href="#cb2-1" aria-hidden="true" tabindex="-1"></a><span class="kw">def</span> relu(x):</span>
 <span id="cb2-2"><a href="#cb2-2" aria-hidden="true" tabindex="-1"></a>  <span class="cf">return</span> np.maximum(<span class="dv">0</span>, x)</span></code><button title="Copy to Clipboard" class="code-copy-button"><i class="bi"></i></button></pre></div>
 </div>

diff --git a/intro.html b/intro.html
@@ -428,7 +428,7 @@ Table&nbsp;1: List of Packages
 Listing&nbsp;1: Code Block
 </figcaption>
 <div aria-describedby="lst-codeExample-caption-0ceaefa1-69ba-4598-a22c-09a6ac19f8ca">
-<div id="aed3c96e" class="cell" data-execution_count="1">
+<div id="b4a2f000" class="cell" data-execution_count="1">
 <div class="sourceCode cell-code" id="annotated-cell-1"><pre class="sourceCode python code-annotation-code code-with-copy code-annotated"><code class="sourceCode python"><span id="annotated-cell-1-1"><a href="#annotated-cell-1-1" aria-hidden="true" tabindex="-1"></a><span class="kw">def</span> add(num1, num2):</span>
 <a class="code-annotation-anchor" data-target-cell="annotated-cell-1" data-target-annotation="1" onclick="event.preventDefault();">1</a><span id="annotated-cell-1-2" class="code-annotation-target"><a href="#annotated-cell-1-2" aria-hidden="true" tabindex="-1"></a>  result <span class="op">=</span> num1 <span class="op">+</span> num2</span>
 <span id="annotated-cell-1-3"><a href="#annotated-cell-1-3" aria-hidden="true" tabindex="-1"></a>  <span class="cf">return</span>  result</span><div class="code-annotation-gutter-bg"></div><div class="code-annotation-gutter"></div></code><button title="Copy to Clipboard" class="code-copy-button"><i class="bi"></i></button></pre></div>
